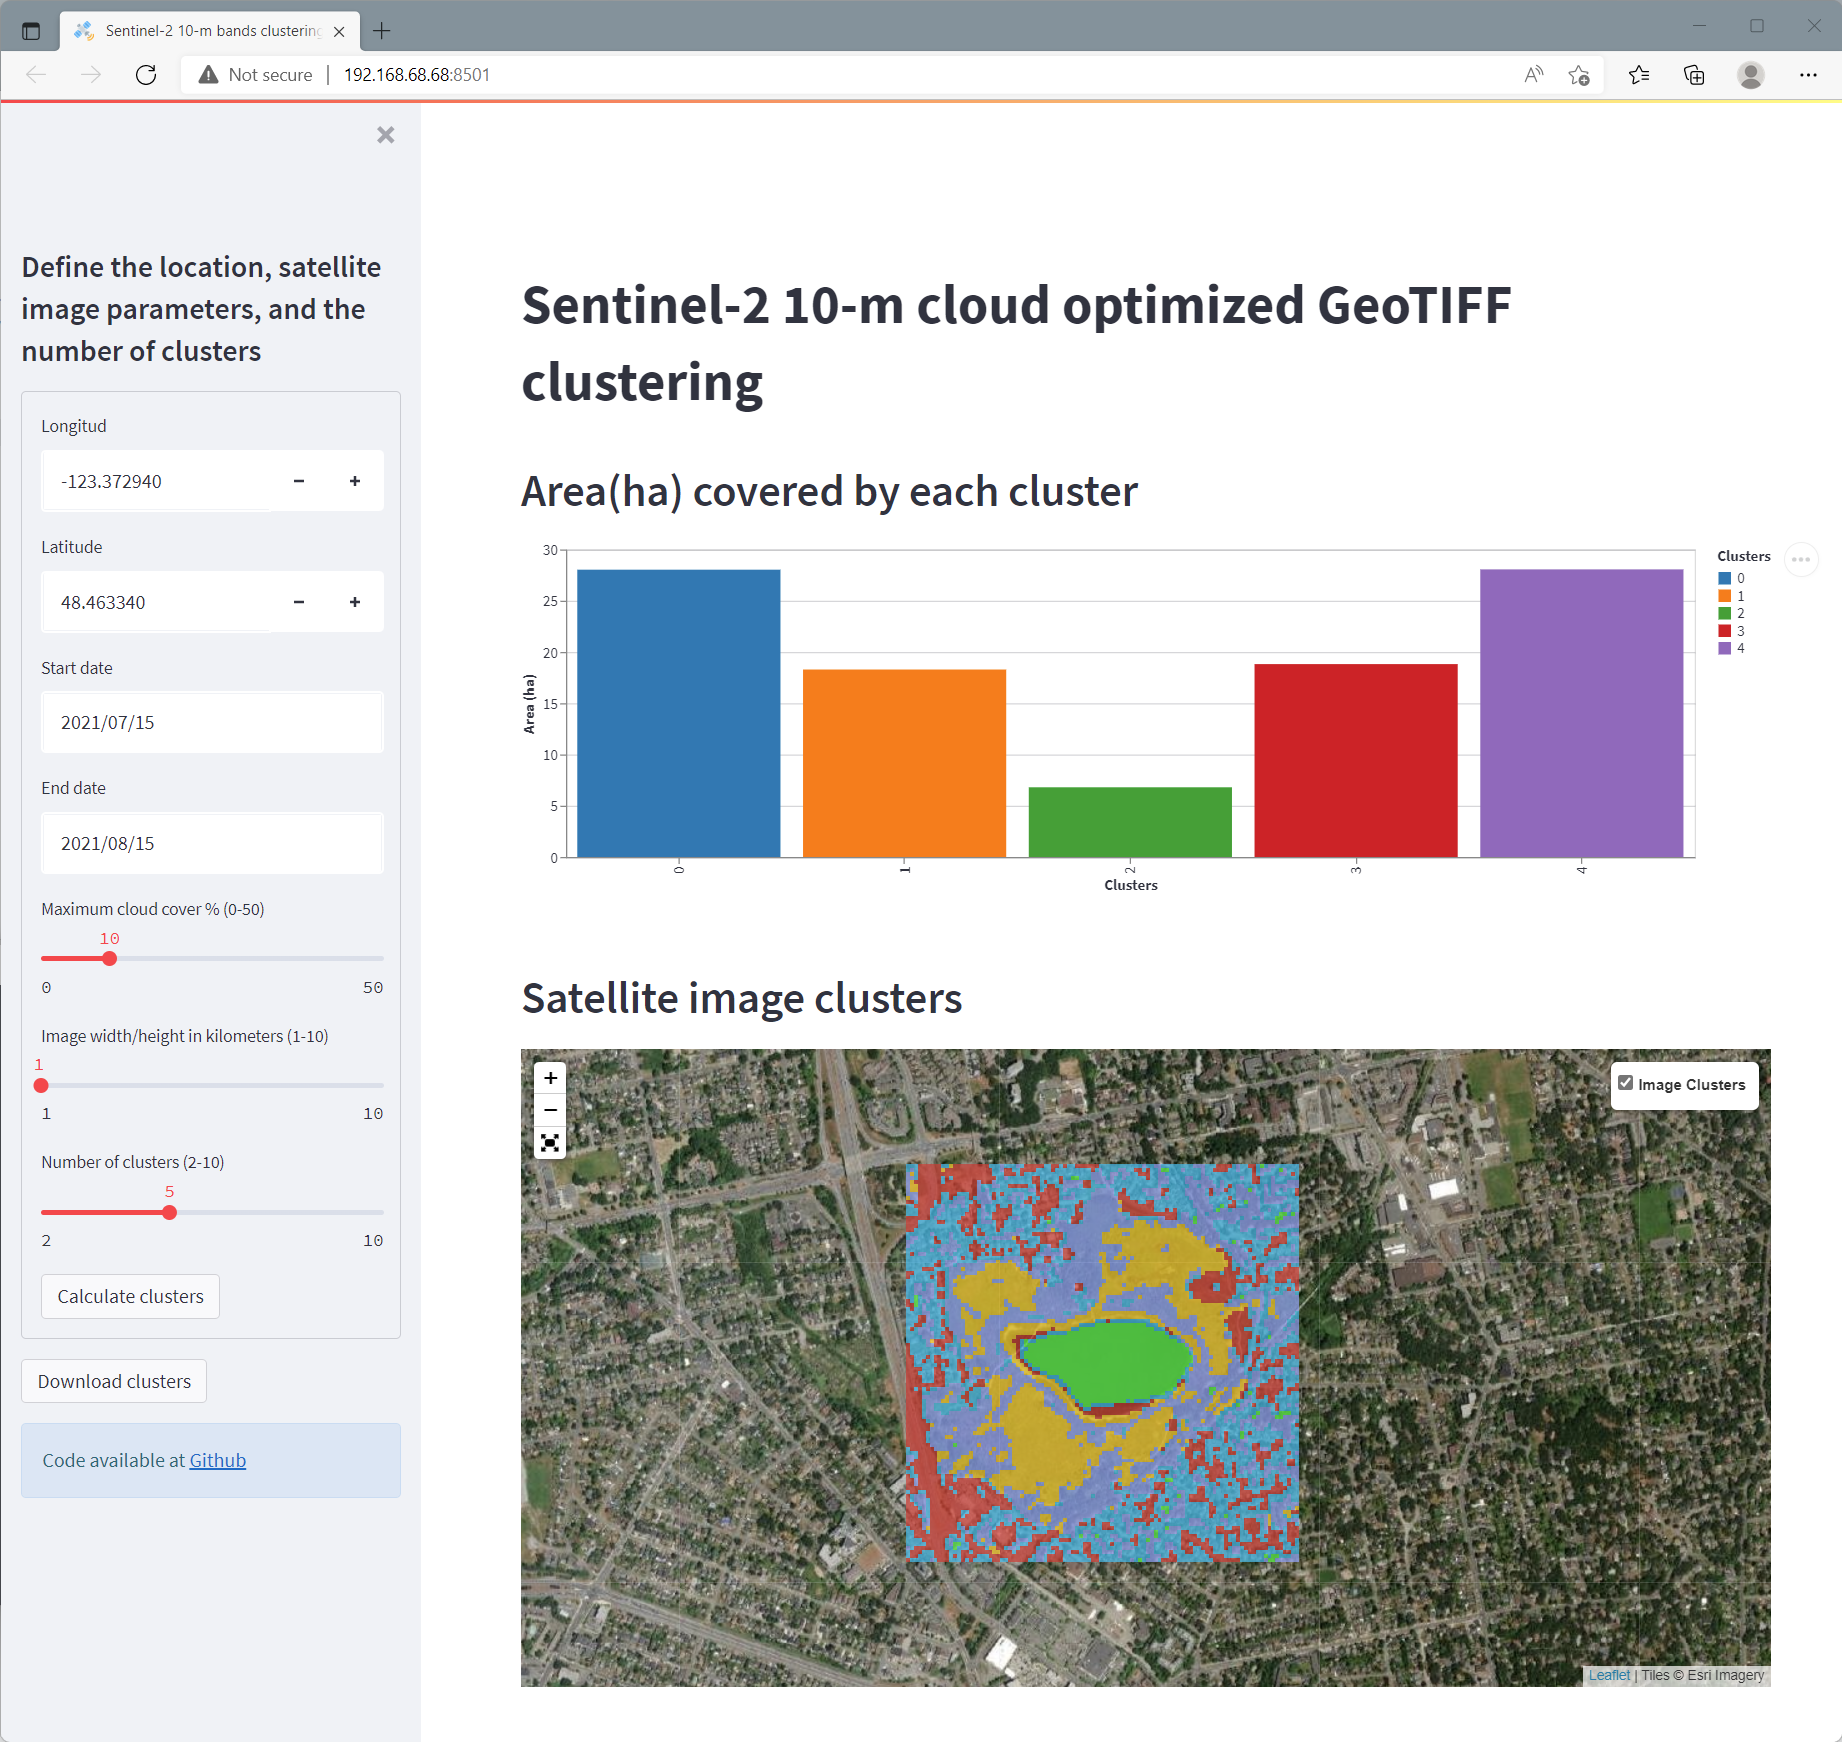
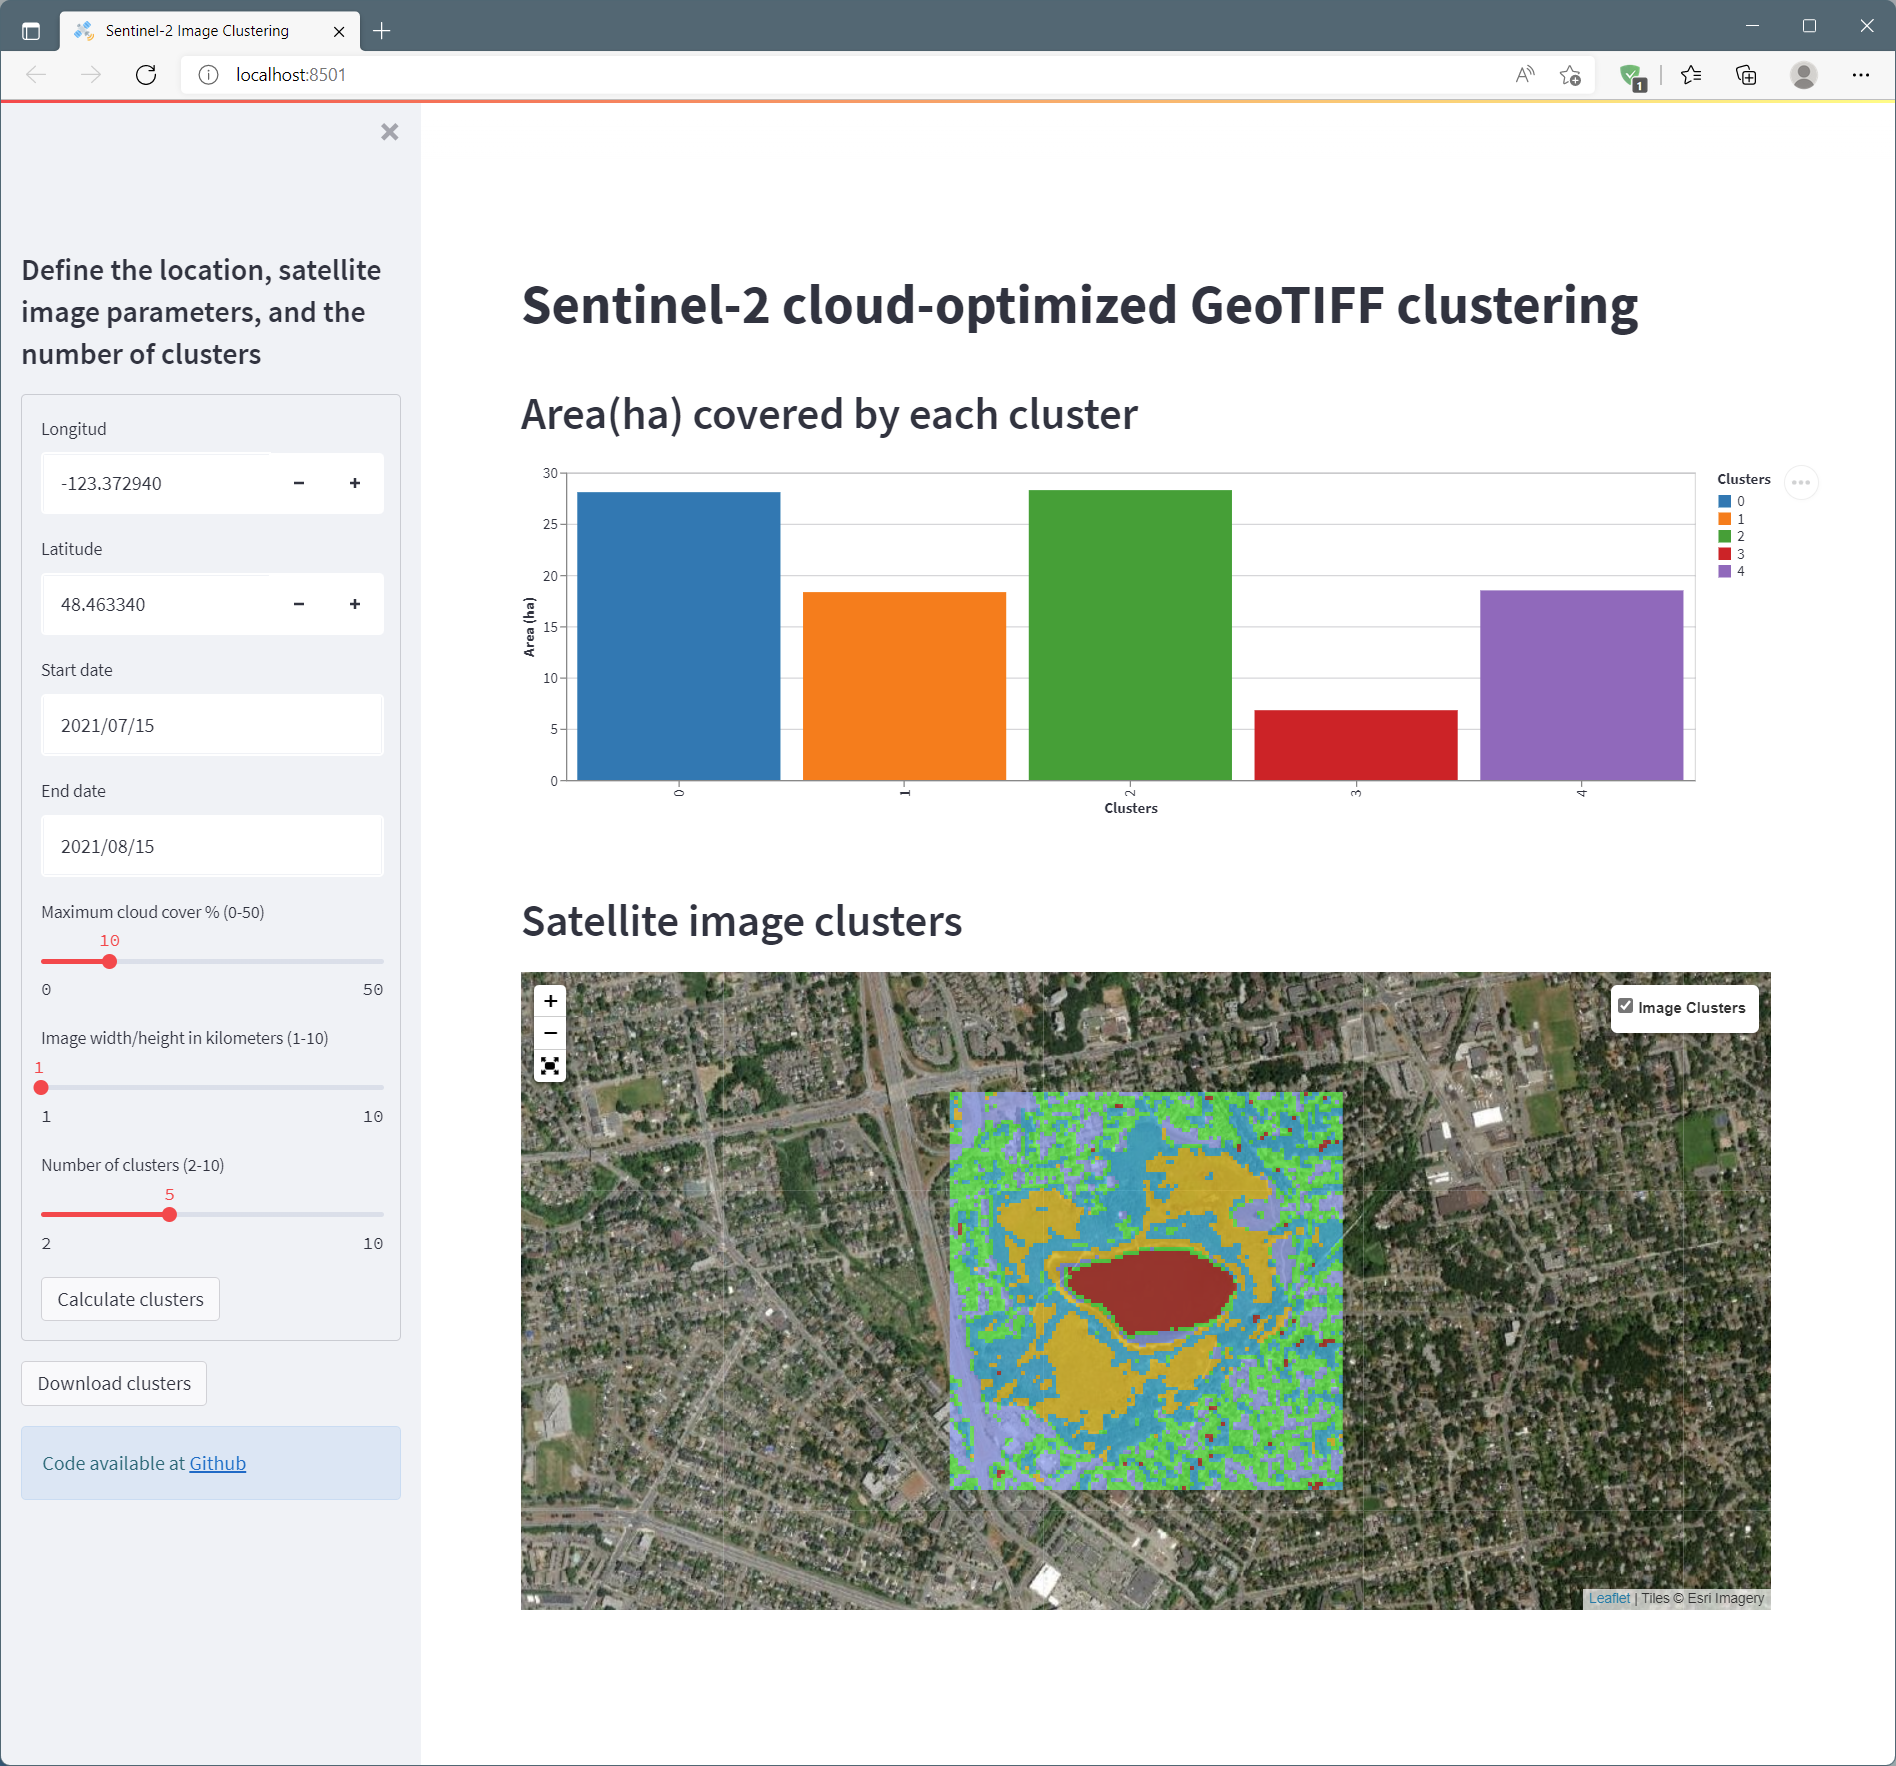
readme is ready, code is still under review

diff --git a/code/stac_kmeans.py b/code/stac_kmeans.py
@@ -1,5 +1,8 @@
 # %%
+import tempfile
+import io
 import folium
+from sklearn import cluster
 from streamlit_folium import folium_static
 from matplotlib import cm
 import matplotlib.pyplot as plt
@@ -263,7 +266,16 @@ def export_clusters(clusters_array, sref, transform):
         'crs':      sref,
         'transform':transform
     }
+
     with rasterio.open('clusters.tif', 'w', **profile) as dst:
         dst.write(clusters_array, 1)
 
     return 'clusters.tif'
+
+    # tmpfile = tempfile.NamedTemporaryFile('w')
+    # with rasterio.open(tmpfile.name, 'w', **profile) as dataset:
+    #     print(dataset.meta)
+    #     dataset.write(clusters_array, 1)
+    # return tmpfile
+        
+# %%

diff --git a/code/st_kmeans_app.py b/code/st_kmeans_app.py
@@ -4,7 +4,7 @@ import streamlit as st
 import stac_kmeans as sk
 
 st.set_page_config(
-     page_title="Sentinel-2 10-m bands clustering",
+     page_title="Sentinel-2 Image Clustering",
      page_icon=":satellite:",
      layout="wide"
  )
@@ -17,7 +17,7 @@ hide_menu_style = """
 st.markdown(hide_menu_style, unsafe_allow_html=True)
 
 # Main title
-st.title("Cloud-optimized GeoTIFF clustering on Sentinel-2 images")
+st.title("Sentinel-2 cloud-optimized GeoTIFF clustering")
 
 # Streamlit parameters
 st.sidebar.title("Define the location, satellite image parameters, and the number of clusters")

diff --git a/README.md b/README.md
@@ -1,10 +1,9 @@
-# A streamlit app for performing k-means clustering on the 10-m bands of the Sentinel-2 satellite.
+# Sentinel-2 cloud-optimized GeoTIFF clustering
 ## Contents
-1. Introduction
-2. Installation
-3. Usage
-4. Results
-5. Next steps
+1. [Introduction](#1-introduction)
+2. [Installation](#2-installation)
+3. [Usage](#3-usage)
+4. [Conclusions](#4-conclusions)
 
 ### 1. Introduction
 Until recently, satellite image processing required to locally store these datasets for performing any pre-processing or analyses. Nowadays, recent advances in streaming protocols for geospatial information, in particular cloud-optimized GeoTIFFs ([COG](https://www.cogeo.org/)), and specifications for indexing and discovering geospatial datasets such as the SpatioTemporal Asset Catalog ([STAC](https://stacspec.org/)) specification, have created a new paradigm in remote sensing for data retrieval, processing, and analysis, where one can process satellite imagery on-premises or in the cloud, without downloading these massive datasets.
@@ -14,35 +13,37 @@ This repository contains an example of how to perform a cluster analysis (i.e. u
 ### 2. Installation
 A `conda` environment was created, and the following Python libraries were installed using the command `conda env create -f environment.yml`:
 - streamlit
+- streamlit_folium
+- folium
 - pystac_client
 - rasterio
 - numpy
 - pandas
 - matplotlib
 - altair
-- folium
 - scikit-learn
 
 ### 3. Usage
+Once the conda environment was create and activated, use the terminal to execute the command `streamlit run code/st_kmeans_app.py`.
+
 The Streamlit app contains two main elements, the sidebar on the left and the results area on the right. On the sidebar the user must specify the following parameters:
 - Longitude:            central longitude of the area of interest, expressed in decimal degrees
 - Latitude:             central latitude of the area of interest, expressed in decimal degrees
 - Start date:           satellite image start acquisition date   
 - End date:             satellite image end acquisition date
-- Maximum cloud cover:  maximum cloud cover, expresed as percentage
-- Image width/heigh:    size of the area of interest, expressed in kilometers
+- Maximum cloud cover:  maximum cloud cover, expressed as percentage
+- Image width/height:   size of the area of interest, expressed in kilometers
 - Number of clusters:   desired number of clusters
 
-Once all the parameters have been specified, clicking on the `Calculate clusters` button will generate on the results area, a bar chart showig the area (in hectares) covered by each cluster, and a map where the user can turn on and off the clusters to compare them with the underlying satellite imagery.
+Once all the parameters have been specified, clicking on the `Calculate clusters` button will generate on the results area, a bar chart showing the area (in hectares) covered by each cluster, and a map where the user can turn on and off the clusters to compare them with the underlying satellite imagery.
 
-Finally, if desired, the user can download the clusters GeoTIFF for further processing or carrtographic production (e.g. QGIS). For downloading the clusters the user must click on the button called `Download clusters`.
+Finally, if desired, the user can download a GeoTIFF for further processing (e.g. QGIS). For downloading the clusters' GeoTIFF the user must click on the button called `Download clusters`.
 
 ![](etc/app.png)
 
-### 4. Results
-Several random locations were tested during the creation of this app, at the results shown are accurate, as far as an unsupervised classification could be. This means that with no training on these images one is able of generating a simple and effective land cover map to have a better understanding of the area of interest and the changing dynamics occuring there.
+### 4. Conclusions
+Several random locations were tested during the creation of this app, and the results shown were visually accurate. The usefulness of this algorithm lies on there is no need to train the satellite image to generate a fast land cover map to help one understands  the landscape under study. It is worth mentioning the satellite background shown in the map widget is not the original Sentinel-2 image used for calculating the clusters. This decision was taken to avoid using too many computing resources, but in a larger scale production environment this can easily be modified.
 
-### 5. Next steps
-The code provided in this repository is aimed to be used as a starting point in the search, retrieval, and analysis of satellite imagery using COGs and the STAC specification, to leverage powerful analystics to be applied to several business cases that can benefit from it.
+The code provided in this repository can be used as a starting point for developing analysis and visualization tools that make use of relatively new technologies for the search, retrieval, and analysis of satellite imagery, specifically COGs and the STAC specification.
 
-I you need more information, [contact me](https://twitter.com/julionovoa_) on Twitter.
+I you need more information, feel free to [contact me](https://twitter.com/julionovoa_).
